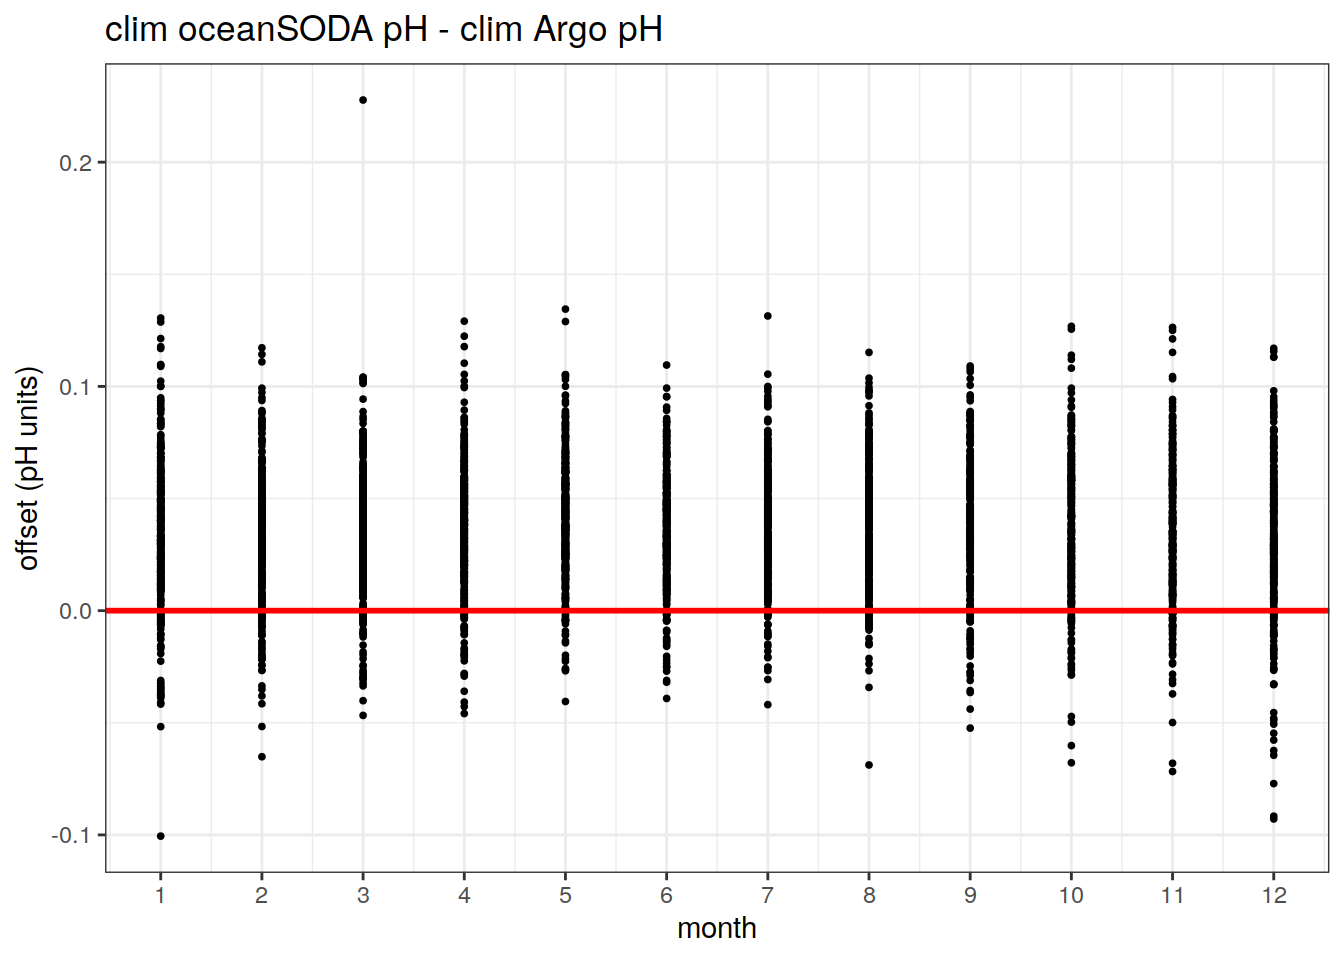
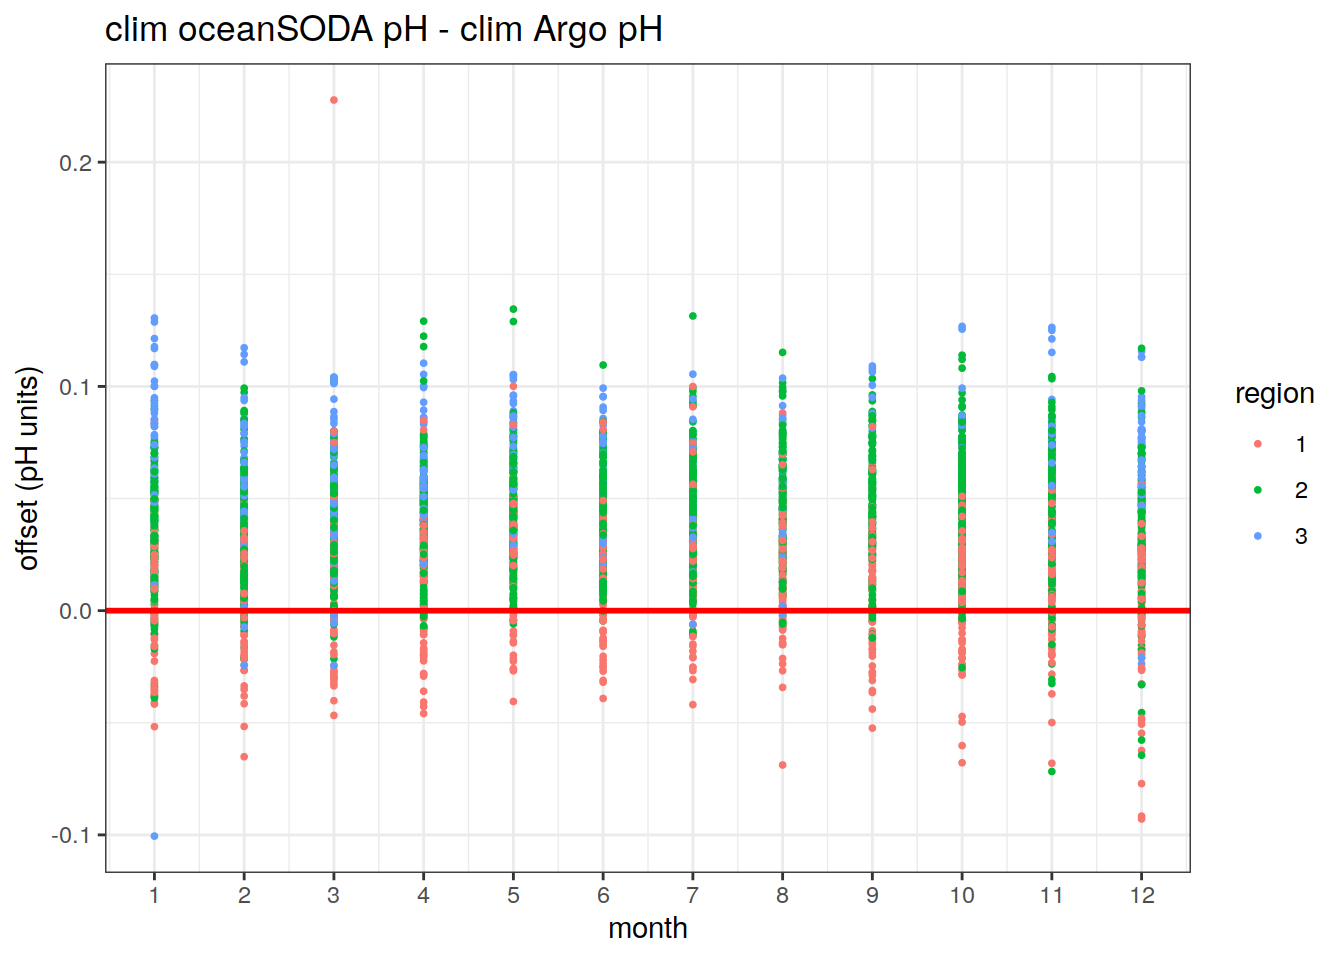
Build site.

diff --git a/docs/oceanSODA_argo.html b/docs/oceanSODA_argo.html
@@ -527,16 +527,16 @@ This reproducible <a href="http://rmarkdown.rstudio.com">R Markdown</a> analysis
 <div class="panel panel-default">
 <div class="panel-heading">
 <p class="panel-title">
-<a data-toggle="collapse" data-parent="#workflowr-checks" href="#strongRepositoryversionstrongahrefhttpsgithubcomjensdanielmuellerbgcargorargodatatree0829a920d98b0b61c8a8cb110df5ef423f434e88targetblank0829a92a"> <span class="glyphicon glyphicon-ok text-success" aria-hidden="true"></span> <strong>Repository version:</strong> <a href="https://github.com/jens-daniel-mueller/bgc_argo_r_argodata/tree/0829a920d98b0b61c8a8cb110df5ef423f434e88" target="_blank">0829a92</a> </a>
+<a data-toggle="collapse" data-parent="#workflowr-checks" href="#strongRepositoryversionstrongahrefhttpsgithubcomjensdanielmuellerbgcargorargodatatreefa7505037cc826bd773b9bd1918452d3e18d2573targetblankfa75050a"> <span class="glyphicon glyphicon-ok text-success" aria-hidden="true"></span> <strong>Repository version:</strong> <a href="https://github.com/jens-daniel-mueller/bgc_argo_r_argodata/tree/fa7505037cc826bd773b9bd1918452d3e18d2573" target="_blank">fa75050</a> </a>
 </p>
 </div>
[2 lines of base64/hex data omitted]
 <div class="panel-body">
 <p>
 Great! You are using Git for version control. Tracking code development and connecting the code version to the results is critical for reproducibility.
 </p>
 <p>
-The results in this page were generated with repository version <a href="https://github.com/jens-daniel-mueller/bgc_argo_r_argodata/tree/0829a920d98b0b61c8a8cb110df5ef423f434e88" target="_blank">0829a92</a>. See the <em>Past versions</em> tab to see a history of the changes made to the R Markdown and HTML files.
+The results in this page were generated with repository version <a href="https://github.com/jens-daniel-mueller/bgc_argo_r_argodata/tree/fa7505037cc826bd773b9bd1918452d3e18d2573" target="_blank">fa75050</a>. See the <em>Past versions</em> tab to see a history of the changes made to the R Markdown and HTML files.
 </p>
 <p>
 Note that you need to be careful to ensure that all relevant files for the analysis have been committed to Git prior to generating the results (you can use <code>wflow_publish</code> or <code>wflow_git_commit</code>). workflowr only checks the R Markdown file, but you know if there are other scripts or data files that it depends on. Below is the status of the Git repository when the results were generated:
@@ -590,6 +590,40 @@ Message
 </tr>
 </thead>
 <tbody>
+<tr>
+<td>
+Rmd
+</td>
+<td>
+<a href="https://github.com/jens-daniel-mueller/bgc_argo_r_argodata/blob/fa7505037cc826bd773b9bd1918452d3e18d2573/analysis/oceanSODA_argo.Rmd" target="_blank">fa75050</a>
+</td>
+<td>
+pasqualina-vonlanthendinenna
+</td>
+<td>
+2021-12-03
+</td>
+<td>
+added regions to offset plot
+</td>
+</tr>
+<tr>
+<td>
+html
+</td>
+<td>
+<a href="https://rawcdn.githack.com/jens-daniel-mueller/bgc_argo_r_argodata/38a5110381b3df5f4eaab6fca4363a5c68805069/docs/oceanSODA_argo.html" target="_blank">38a5110</a>
+</td>
+<td>
+pasqualina-vonlanthendinenna
+</td>
+<td>
+2021-12-03
+</td>
+<td>
+Build site.
+</td>
+</tr>
 <tr>
 <td>
 Rmd
@@ -1578,18 +1612,58 @@ pasqualina-vonlanthendinenna
        col = &#39;region&#39;,
        fill = &#39;± 1 std&#39;)</code></pre>
 <p><img src="figure/oceanSODA_argo.Rmd/mean_in_situ_offset-1.png" width="672" style="display: block; margin: auto;" /></p>
+<p>
+<button type="button" class="btn btn-default btn-xs btn-workflowr btn-workflowr-fig" data-toggle="collapse" data-target="#fig-mean_in_situ_offset-1">
+Past versions of mean_in_situ_offset-1.png
+</button>
+</p>
+<div id="fig-mean_in_situ_offset-1" class="collapse">
+<div class="table-responsive">
+<table class="table table-condensed table-hover">
+<thead>
+<tr>
+<th>
+Version
+</th>
+<th>
+Author
+</th>
+<th>
+Date
+</th>
+</tr>
+</thead>
+<tbody>
+<tr>
+<td>
+<a href="https://github.com/jens-daniel-mueller/bgc_argo_r_argodata/blob/38a5110381b3df5f4eaab6fca4363a5c68805069/docs/figure/oceanSODA_argo.Rmd/mean_in_situ_offset-1.png" target="_blank">38a5110</a>
+</td>
+<td>
+pasqualina-vonlanthendinenna
+</td>
+<td>
+2021-12-03
+</td>
+</tr>
+</tbody>
+</table>
+</div>
+</div>
 <p>Offset between climatological Argo and climatological OceanSODA pH:</p>
 <pre class="r"><code># Offset between climatological argo and climatological OceanSODA pH 
 
-argo_OceanSODA_SO_clim %&gt;%
+argo_OceanSODA_SO_clim &lt;- inner_join(argo_OceanSODA_SO_clim, region_masks_all_1x1_SO) </code></pre>
+<pre><code>Joining, by = c(&quot;lon&quot;, &quot;lat&quot;)</code></pre>
+<pre class="r"><code>argo_OceanSODA_SO_clim %&gt;% 
   drop_na() %&gt;%
   ggplot() +
-  geom_point(aes(x = month, y = offset_clim), size = 0.7, pch = 19) +
+  geom_point(aes(x = month, y = offset_clim, col = value), size = 0.7, pch = 19) +
   geom_hline(yintercept = 0, size = 1, col = &#39;red&#39;)+
   scale_x_continuous(breaks = seq(1, 12, 1))+
   labs(title = &#39;clim oceanSODA pH - clim Argo pH&#39;,
        x = &#39;month&#39;,
-       y = &#39;offset (pH units)&#39;)</code></pre>
+       y = &#39;offset (pH units)&#39;,
+       col = &#39;region&#39;)</code></pre>
 <p><img src="figure/oceanSODA_argo.Rmd/calculate_clim_offset-1.png" width="672" style="display: block; margin: auto;" /></p>
 <p>
 <button type="button" class="btn btn-default btn-xs btn-workflowr btn-workflowr-fig" data-toggle="collapse" data-target="#fig-calculate_clim_offset-1">
@@ -1662,11 +1736,10 @@ pasqualina-vonlanthendinenna
 </div>
 </div>
 <p>Mean offset between climatological OceanSODA pH and climatological Argo pH</p>
-<pre class="r"><code>mean_clim_offset &lt;- inner_join(argo_OceanSODA_SO_clim, region_masks_all_1x1_SO) %&gt;% 
+<pre class="r"><code>mean_clim_offset &lt;- argo_OceanSODA_SO_clim %&gt;% 
   group_by(month, value) %&gt;% 
   summarise(mean_offset_clim = mean(offset_clim, na.rm = TRUE),
             std_offset_clim = sd(offset_clim, na.rm = TRUE))</code></pre>
-<pre><code>Joining, by = c(&quot;lon&quot;, &quot;lat&quot;)</code></pre>
 <pre><code>`summarise()` has grouped output by &#39;month&#39;. You can override using the `.groups` argument.</code></pre>
 <pre class="r"><code>mean_clim_offset %&gt;% 
   ggplot()+
@@ -1710,6 +1783,17 @@ Date
 <tbody>
 <tr>
 <td>
+<a href="https://github.com/jens-daniel-mueller/bgc_argo_r_argodata/blob/38a5110381b3df5f4eaab6fca4363a5c68805069/docs/figure/oceanSODA_argo.Rmd/climatological_offset_all_years-1.png" target="_blank">38a5110</a>
+</td>
+<td>
+pasqualina-vonlanthendinenna
+</td>
+<td>
+2021-12-03
+</td>
+</tr>
+<tr>
+<td>
 <a href="https://github.com/jens-daniel-mueller/bgc_argo_r_argodata/blob/6a5024ee564d229ed2a8fbd6e7fb6d457ac1af27/docs/figure/oceanSODA_argo.Rmd/climatological_offset_all_years-1.png" target="_blank">6a5024e</a>
 </td>
 <td>
@@ -1723,7 +1807,7 @@ pasqualina-vonlanthendinenna
 </table>
 </div>
 </div>
-<p>Offset between climatological OceanSODA pH and climatological Argo pH</p>
+<p>Mapped offset between climatological OceanSODA pH and climatological Argo pH</p>
 <pre class="r"><code># bin the offsets for better plotting  
 # plot the offsets on a map of the Southern Ocean
 
@@ -1771,6 +1855,17 @@ Date
 </tr>
 </thead>
 <tbody>
+<tr>
+<td>
+<a href="https://github.com/jens-daniel-mueller/bgc_argo_r_argodata/blob/38a5110381b3df5f4eaab6fca4363a5c68805069/docs/figure/oceanSODA_argo.Rmd/map_climatological_offset-1.png" target="_blank">38a5110</a>
+</td>
+<td>
+pasqualina-vonlanthendinenna
+</td>
+<td>
+2021-12-03
+</td>
+</tr>
 <tr>
 <td>
 <a href="https://github.com/jens-daniel-mueller/bgc_argo_r_argodata/blob/6a5024ee564d229ed2a8fbd6e7fb6d457ac1af27/docs/figure/oceanSODA_argo.Rmd/map_climatological_offset-1.png" target="_blank">6a5024e</a>
@@ -1869,6 +1964,17 @@ Date
 </tr>
 </thead>
 <tbody>
+<tr>
+<td>
+<a href="https://github.com/jens-daniel-mueller/bgc_argo_r_argodata/blob/38a5110381b3df5f4eaab6fca4363a5c68805069/docs/figure/oceanSODA_argo.Rmd/map_climatological_offsets_polar_map-1.png" target="_blank">38a5110</a>
+</td>
+<td>
+pasqualina-vonlanthendinenna
+</td>
+<td>
+2021-12-03
+</td>
+</tr>
 <tr>
 <td>
 <a href="https://github.com/jens-daniel-mueller/bgc_argo_r_argodata/blob/6a5024ee564d229ed2a8fbd6e7fb6d457ac1af27/docs/figure/oceanSODA_argo.Rmd/map_climatological_offsets_polar_map-1.png" target="_blank">6a5024e</a>
